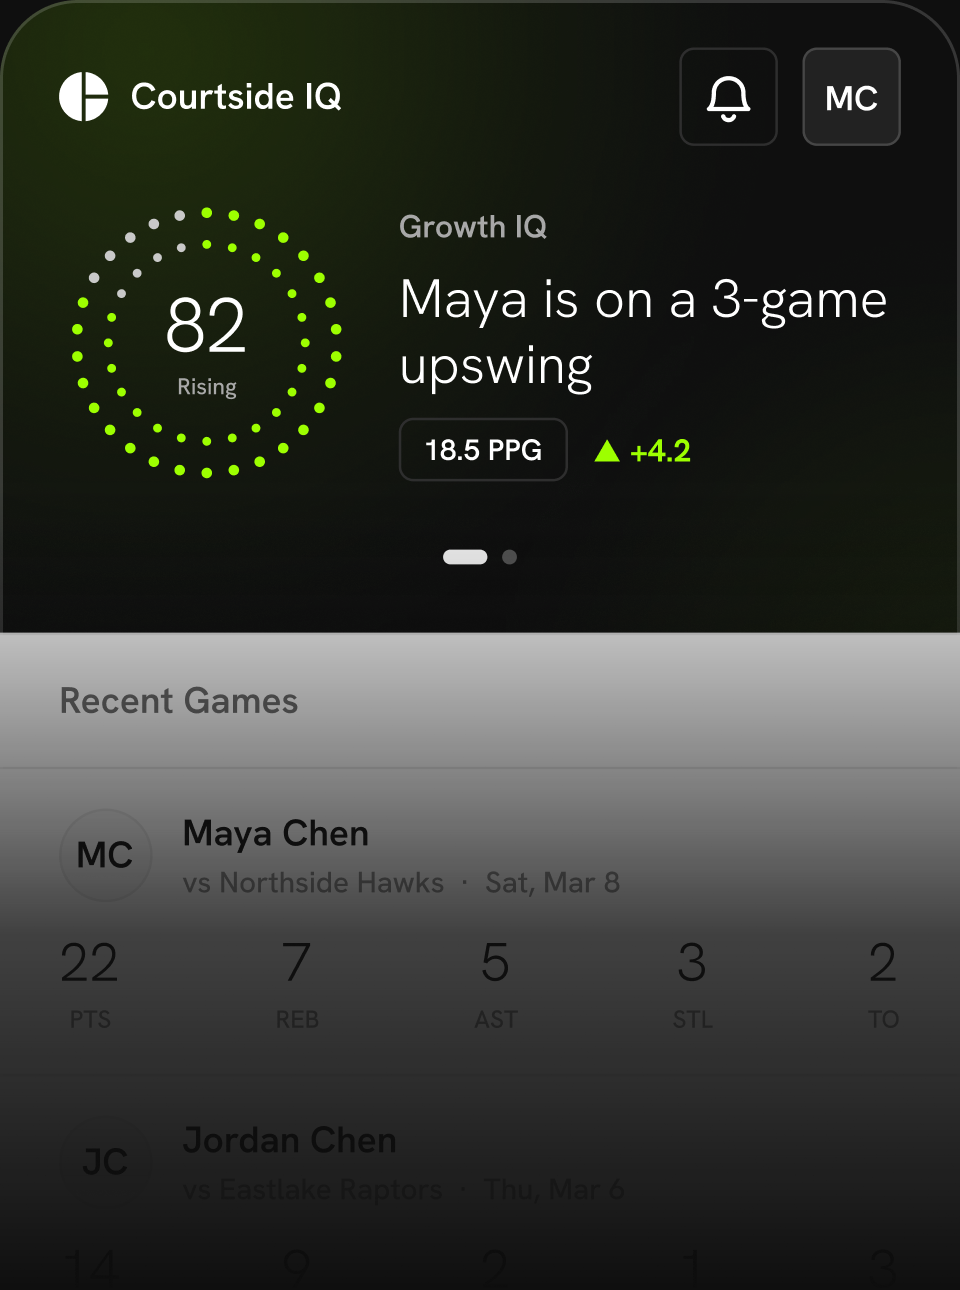
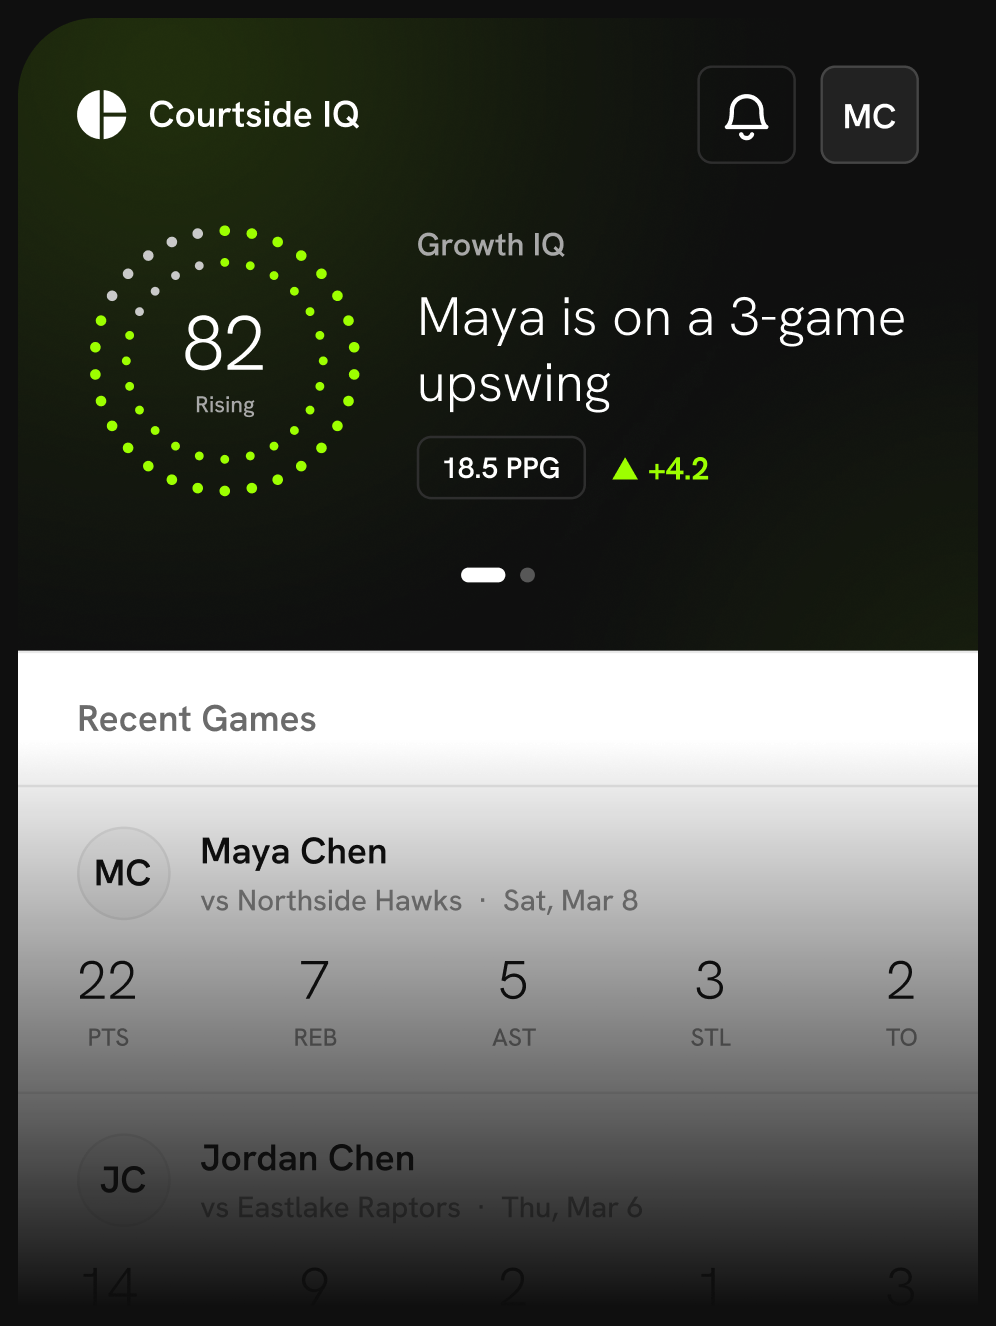
feat(onboarding): bake the 6px mockup border into the slide exports
The three mockups now carry their designed 6px outside border (#0F0F0F at 60%) in the Figma frames, so the exports grew to 996x1326 and the aspect ratio and corner-clip radius follow the border's outer arc. Figma side: slides 2 and 3 were at 7px (normalized to 6) and still showed the old 1px white hairline (hidden, matching slide 1).

diff --git a/lib/features/onboarding/onboarding_page.dart b/lib/features/onboarding/onboarding_page.dart
@@ -234,24 +234,27 @@ class _Slide extends StatelessWidget {
           child: Padding(
             padding: const EdgeInsets.symmetric(horizontal: CiSpace.s5),
             // CLIP THE CAPTURE TO THE CARD'S CORNERS. The export bakes an
-            // opaque ink background (alpha 255 everywhere) with the app card
-            // rounded at radius 61 on a 960-wide image. Left unclipped, those
-            // ink corners cover the glow and read as black squares against the
-            // lit margins. Constrain to the capture's own aspect so the box
-            // matches it exactly, then clip the TOP corners at the same radius
-            // so the ink comes off and the glow shows around the card.
+            // opaque ink background (alpha 255 everywhere) around the card,
+            // which now carries its designed 6px outside border (#0F0F0F at
+            // 60%), so the 320x430 mockup exports at 332x442 (996x1326 at 3x).
+            // Left unclipped, those ink corners cover the glow and read as
+            // black squares against the lit margins. Constrain to the
+            // capture's own aspect so the box matches it exactly, then clip
+            // the TOP corners at the border's outer radius so the ink comes
+            // off and the glow shows around the card.
             child: Align(
               alignment: Alignment.topCenter,
               child: AspectRatio(
-                aspectRatio: 960 / 1290,
+                aspectRatio: 996 / 1326,
                 child: LayoutBuilder(
                   builder: (context, constraints) {
-                    // ~61 is where the ink meets the card, but clipping exactly
-                    // there leaves a 1-2px ink fringe (the anti-aliased clip
-                    // edge samples the ink just outside). 68 clips a hair INTO
-                    // the card corner - dark chrome, so invisible - taking the
+                    // The border's outer arc is (26 + 6) * 3 = 96 on a
+                    // 996-wide image, but clipping exactly there leaves a
+                    // 1-2px ink fringe (the anti-aliased clip edge samples the
+                    // ink just outside). 102 clips a hair INTO the border
+                    // corner - near-ink over ink, so invisible - taking the
                     // fringe with it.
-                    final radius = constraints.maxWidth * 68 / 960;
+                    final radius = constraints.maxWidth * 102 / 996;
                     return ClipRRect(
                       borderRadius: BorderRadius.vertical(
                         top: Radius.circular(radius),
